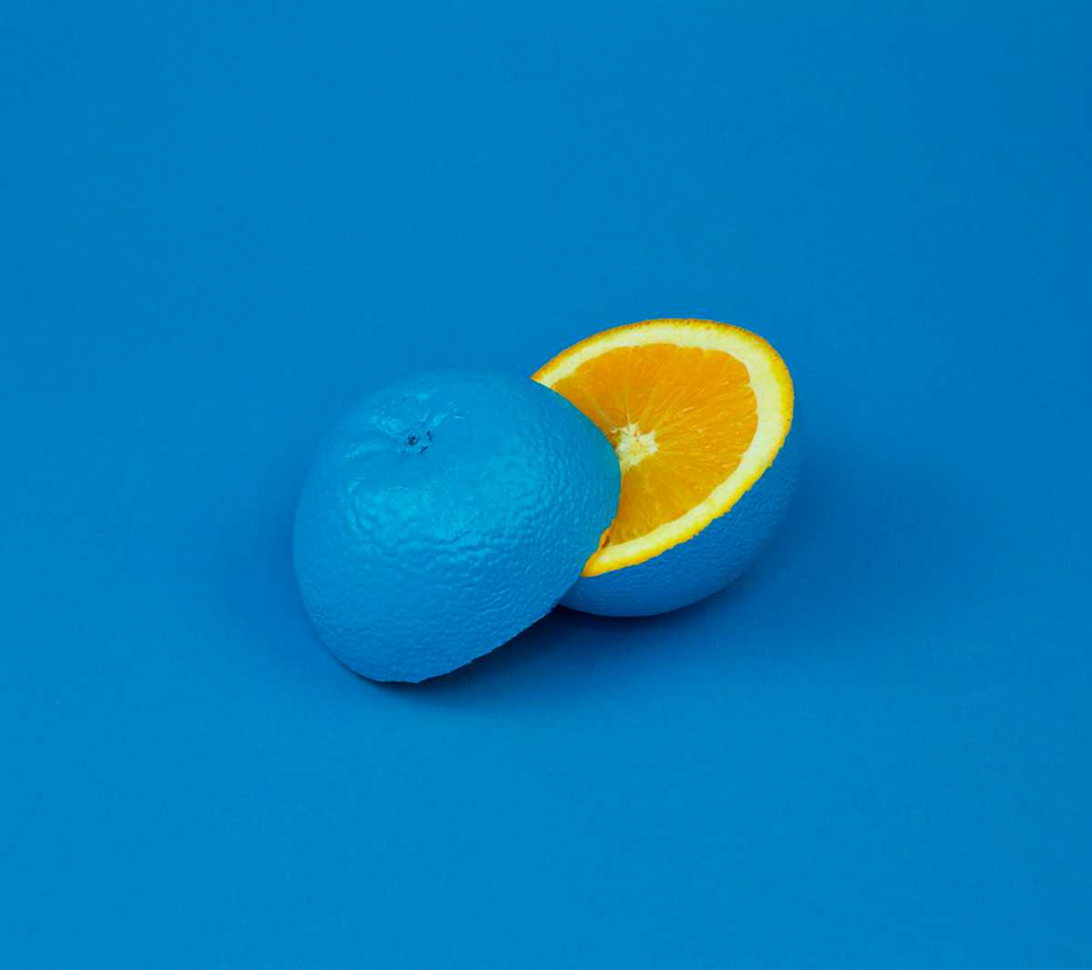
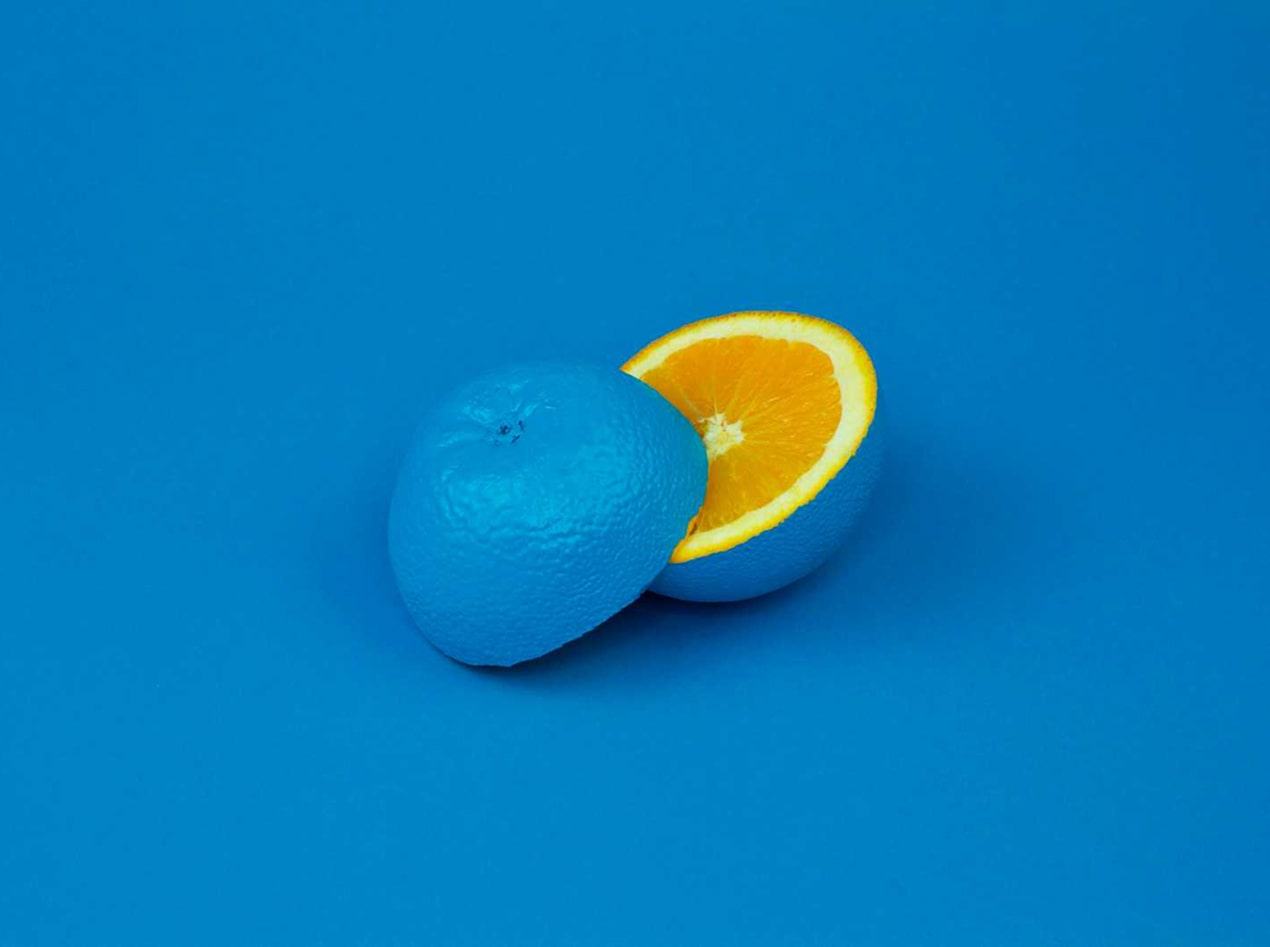
feat: add styles

diff --git a/src/app/projectExamples/projectExamples.module.scss b/src/app/projectExamples/projectExamples.module.scss
@@ -2,51 +2,54 @@
 	position: relative;
 	display: flex;
 	gap: 20px;
-	margin-left: 80px;
+	width: 95.6vw;
+	margin-left: auto;
 	font-family: var(--font-noto-sans);
 	color: var(--eerie-black);
-	padding-top: 160px;
+	padding-top: 213px;
+	font-size: 32px;
+	line-height: 130%;
+	&__image {
+		flex-grow: 1;
+		// height: 720px;
+	}
 }
 
 .projectExampleContainer {
 	display: flex;
 	flex-direction: column;
+	width: 48%;
 }
 
 .infoHeadWrap {
-	padding: 28px 0;
+	padding: 36px 0 40px;
 	border-bottom: 1px solid var(--eerie-black);
 	border-top: 1px solid var(--eerie-black);
 
 	&__title {
 		text-align: end;
 		font-weight: 400;
-		font-size: 24px;
-		line-height: 130%;
 	}
 
 	&__subtitle {
 		font-weight: 500;
-		font-size: 85px;
+		font-size: 112px;
 		line-height: 130%;
 	}
 }
 
 .processWrapper {
-	padding: 34px 0;
+	padding: 45px 0 46px;
 	border-bottom: 1px solid var(--eerie-black);
 
 	&__title {
 		text-align: end;
 		font-weight: 300;
-		font-size: 24px;
 		margin-top: 2px;
-		line-height: 130%;
 	}
 
 	&__headTitle {
 		font-weight: 600;
-		font-size: 24px;
 	}
 }
 
@@ -59,36 +62,29 @@
 .processContainerTitleList {
 	display: flex;
 	font-weight: 300;
-	gap: 30px;
-	font-size: 24px;
-	line-height: 130%;
+	gap: 40px;
 }
 
 .clientWrap {
-	padding: 34px 0;
+	padding: 45px 0;
 	display: flex;
 	justify-content: space-between;
 	align-items: center;
 	border-bottom: 1px solid var(--eerie-black);
 
 	&__title {
-		font-size: 24px;
 		font-weight: 300;
-		line-height: 130%;
 	}
 }
 
 .summaryWrapper {
-	padding: 34px 0 46px;
+	padding: 46px 0;
 }
 
 .summaryContainer {
 	&__titleContent {
-		margin-top: 10px;
+		margin-top: 14px;
 		font-weight: 300;
-		font-size: 24px;
-		line-height: 130%;
-		letter-spacing: 0.05em;
 	}
 }
 

diff --git a/src/assets/script/controlArrow/controlArrow.tsx b/src/assets/script/controlArrow/controlArrow.tsx
@@ -1,25 +1,20 @@
 import { type IIconsProps } from "types/common/PageProps";
 
-export const ControlArrow = ({ right }: IIconsProps) => (
+export const ControlArrow = ({ right, classNames }: IIconsProps) => (
 	<svg
+		className={classNames}
+		xmlns="http://www.w3.org/2000/svg"
 		style={right ? { transform: "rotate(180deg)" } : {}}
-		width="73"
-		height="14"
-		viewBox="0 0 73 14"
-		fill="none"
-		xmlns="http://www.w3.org/2000/svg">
+		width="97"
+		height="19"
+		fill="none">
+		<path stroke="#191919" strokeLinecap="square" strokeWidth="2.347" d="M12 2 2 9.5 12 17" />
 		<path
-			d="M9.57565 1.5L1.99988 7L9.57565 12.5"
 			stroke="#191919"
-			strokeWidth="1.76"
-			strokeLinecap="square"
-		/>
-		<path
-			d="M71.9999 6.86228L3.74988 7"
-			stroke="#191919"
-			strokeWidth="1.76"
 			strokeLinecap="square"
 			strokeLinejoin="round"
+			strokeWidth="2.347"
+			d="M95 9.812 4 10"
 		/>
 	</svg>
 );

diff --git a/src/components/controlButtons/controlButtons.module.scss b/src/components/controlButtons/controlButtons.module.scss
@@ -1,19 +1,19 @@
 .controlButtons {
-	margin-top: 50px;
+	margin-top: 80px;
 	display: flex;
 	justify-content: space-between;
 
 	&__btn {
 		display: flex;
 		align-items: center;
-		gap: 60px;
+		gap: 80px;
 		border-bottom: 1px solid var(--eerie-black);
 		border-top: 1px solid var(--eerie-black);
-		padding: 14px 0;
+		padding: 25px 0;
 		font-family: var(--font-noto-sans);
 		width: 100%;
 		font-weight: 400;
-		font-size: 32px;
+		font-size: 42px;
 		line-height: 130%;
 		background-color: transparent;
 
@@ -28,12 +28,16 @@
 
 		&_left {
 			justify-content: end;
-			padding-right: 90px;
+			padding-right: 120px;
 		}
 
 		&_right {
 			justify-content: start;
-			padding-left: 90px;
+			padding-left: 120px;
 		}
 	}
+}
+
+.controlButtons__arrow {
+	width: 93px;
 }

diff --git a/src/components/controlButtons/controlButtons.tsx b/src/components/controlButtons/controlButtons.tsx
@@ -5,7 +5,7 @@ import style from "./controlButtons.module.scss";
 export const ControlButtons = () => (
 	<div className={style.controlButtons}>
 		<button className={`${style.controlButtons__btn} ${style.controlButtons__btn_left}`}>
-			<ControlArrow />
+			<ControlArrow classNames={style.controlButtons__arrow} />
 			<span>Previous project</span>
 		</button>
 		<button className={`${style.controlButtons__btn} ${style.controlButtons__btn_viewAll}`}>

diff --git a/src/app/projectExamples/page.tsx b/src/app/projectExamples/page.tsx
@@ -44,9 +44,9 @@ export default function ProjectExamples() {
 					</div>
 				</div>
 				<Image
-					style={{ flexShrink: "0", height: "720px" }}
-					width={950}
-					height={720}
+					className={style.projectExampleWrap__image}
+					width={1270}
+					height={947}
 					priority
 					src="/project_preview.jpg"
 					alt="project preview"
